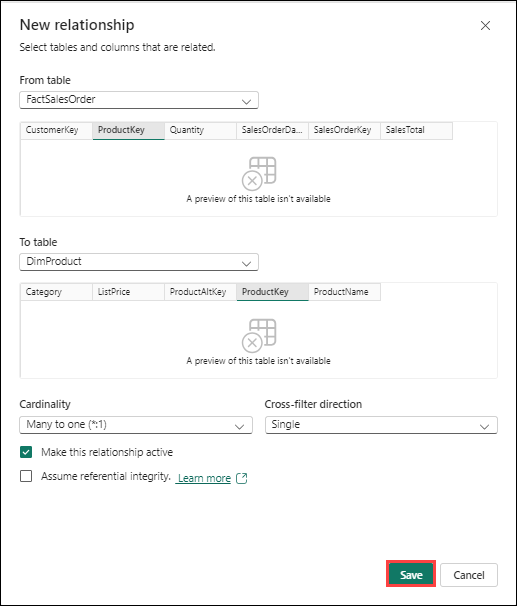
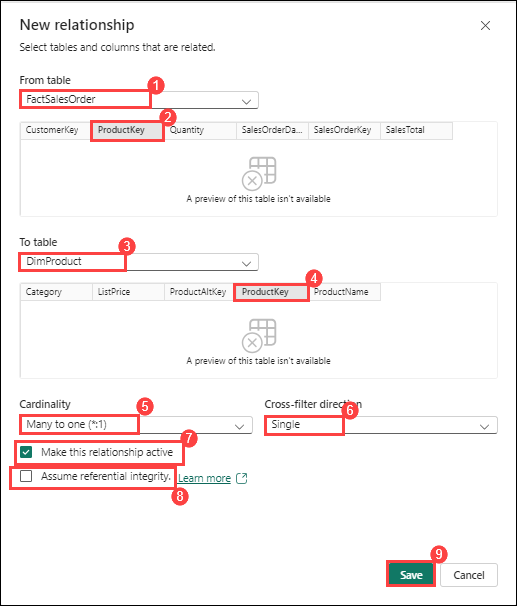
Updates 04 lab

diff --git a/Instructions/Labs/03-real-time-analytics.md b/Instructions/Labs/03-real-time-analytics.md
@@ -41,7 +41,7 @@ Kusto query language (KQL) is used to query static or streaming data in a table 
 
 1. Click on **Get data (1)** and select **Local file (2)**
 
-   ![01](./Images/03/01.png)
+   ![01](./Images/Real1.png)
 
 5. Use the wizard to import the data into a new table by selecting the following options:
     - **Source**:
@@ -67,7 +67,7 @@ Kusto query language (KQL) is used to query static or streaming data in a table 
 
 Now that you have a table of data in your database, you can use KQL code to query it.
 
-1. Make sure you have the **sales** table highlighted. From the menu bar, select the **Query table** drop-down, and from there select **Show any 100 records** .
+1. Make sure you have the **sales** table highlighted. From the menu bar, select the **Query with code** drop-down, and from there select **Show any 100 records** .
 
     ![01](./Images/L4T2S1.png)
     
@@ -103,7 +103,9 @@ Now that you have a table of data in your database, you can use KQL code to quer
 
 8. Run the query and review the results, which should contain the total net revenue for each product between January 1st and December 31st 2020 in ascending order of product name.
 
-9. Select **Save as KQL queryset** and save the query as **Revenue by Product**.
+9. Select **Eventhouse-1793453_queryset** and click on Edit buttons and change the name of the query to **Revenue by Product**.
+
+    ![01](./Images/Edit1.png)
 
 ## Task 3: Create a Power BI report from a KQL Queryset
 
@@ -113,15 +115,23 @@ You can use your KQL Queryset as the basis for a Power BI report.
 
 2. Select **Create Power BI report** and wait for the report editor to open.
 
-3. In the report editor, in the **Data** pane, expand **Kusto Query Result** and select the **Item** and **TotalRevenue** fields.
+    ![01](./Images/Edit2.png)
+
+3. In the report editor, in the **Data** pane, expand **Kusto Query Result** and select the **Item** and **TotalNetRevenue** fields.
 
 4. On the report design canvas, select the table visualization that has been added and then in the **Visualizations** pane, select **Clustered bar chart**.
 
     ![Screenshot of a report from a KQL query.](./Images/kql-report1.png)
 
-5. In the **Power BI** window, in the **File** menu, select **Save**. Then save the report as **Revenue by Item.pbix** in the workspace where your lakehouse and KQL database are defined using a **Non-Business** sensitivity label.
+5. In the **Power BI** window, in the **File** menu, select **Save**. Then save the report as **Revenue by Item (1)** then select the workspace **fabric-<inject key="DeploymentID" enableCopy="false"/> (2)** where your lakehouse and KQL database are defined using a **Non-Business** sensitivity label and then click **Continue (3)**
 
-6. Close the **Power BI** window, and in the bar on the left, select the icon for your workspace.
+    ![01](./Images/Edit3.png)
+
+1. Close the **Power BI** window, then click on **Save**.
+    
+    ![01](./Images/Edit4.png)
+
+6. In the bar on the left, select the icon for your workspace.
 
     Refresh the Workspace page if necessary to view all of the items it contains.
 
@@ -131,7 +141,9 @@ You can use your KQL Queryset as the basis for a Power BI report.
 
 Delta lake supports streaming data. Delta tables can be a *sink* or a *source* for data streams created using the Spark Structured Streaming API. In this example, you'll use a delta table as a sink for some streaming data in a simulated internet of things (IoT) scenario.
 
-1. Navigate back to your workspace and open **Load Sales Notebook**. Add a new code cell in the notebook. Then, in the new cell, add the following code and run it:
+1. Navigate back to your workspace and open **Load Sales Notebook**. Add a new code cell in the notebook by using the **+ Code** button. Then, in the new cell, add the following code and run it:
+
+    ![01](./Images/Edit5.png)
 
     ```python
    from notebookutils import mssparkutils
@@ -165,7 +177,7 @@ Delta lake supports streaming data. Delta tables can be a *sink* or a *source* f
 
     Ensure the message *Source stream created...* is printed. The code you just ran has created a streaming data source based on a folder to which some data has been saved, representing readings from hypothetical IoT devices.
 
-2. In a new code cell, add and run the following code:
+2. Add a new code cell, and run the following code:
 
     ```python
    # Write the stream to a delta table
@@ -177,7 +189,7 @@ Delta lake supports streaming data. Delta tables can be a *sink* or a *source* f
 
     This code writes the streaming device data in delta format to a folder named **iotdevicedata**. Because the path for the folder location in the **Tables** folder, a table will automatically be created for it.
 
-3. In a new code cell, add and run the following code:
+3. Add a new code cell, and run the following code:
 
     ```sql
    %%sql
@@ -187,7 +199,7 @@ Delta lake supports streaming data. Delta tables can be a *sink* or a *source* f
 
     This code queries the **IotDeviceData** table, which contains the device data from the streaming source.
 
-4. In a new code cell, add and run the following code:
+4. Add a new code cell, and run the following code:
 
     ```python
    # Add more data to the source stream
@@ -214,7 +226,7 @@ Delta lake supports streaming data. Delta tables can be a *sink* or a *source* f
 
     This code queries the **IotDeviceData** table again, which should now include the additional data that was added to the streaming source.
 
-6. In a new code cell, add and run the following code:
+6. Add a new code cell, and run the following code:
 
     ```python
    deltastream.stop()

diff --git a/Instructions/Labs/02-data-warehouse.md b/Instructions/Labs/02-data-warehouse.md
@@ -24,7 +24,7 @@ Now that you already have a workspace, it's time to switch to the *Data Warehous
 
 1. Navigate back to your fabric-<inject key="DeploymentID" enableCopy="false"/> workspace.
 
-1. Seacrh and Click on **Warehouse** to create a new Warehouse.
+1. Click on **+ New Item** ,Seacrh and Click on **Warehouse** to create a new Warehouse.
    
    ![01](./Images/u10.png)
 
@@ -99,30 +99,28 @@ A warehouse is a relational database in which you can define tables and other ob
 
 A relational data warehouse typically consists of *fact* and *dimension* tables. The fact tables contain numeric measures you can aggregate to analyze business performance (for example, sales revenue), and the dimension tables contain attributes of the entities by which you can aggregate the data (for example, product, customer, or time). In a Microsoft Fabric data warehouse, you can use these keys to define a data model that encapsulates the relationships between the tables.
 
-1. At the top of the page in the data warehouse, select the **Model** tab.
+1. At the top of the page in the data warehouse, select the **Model Layouts** tab. If the **Model Layouts** option doesn't show up, refresh the browser window. 
 
 2. In the model pane, rearrange the tables in your data warehouse so that the **FactSalesOrder** table is in the middle, like this:
 
     ![Screenshot of the data warehouse model page.](./Images/u12.png)
 
-3. Drag the **ProductKey** field from the **FactSalesOrder** table and drop it on the **ProductKey** field in the **DimProduct** table. Then confirm the following relationship details and click on **Save**:
+3. Drag the **ProductKey** field from the **FactSalesOrder** table and drop it on the **ProductKey** field in the **DimProduct** table. Then confirm the following relationship details and click on **Save (9)**:
 
-    - **Table 1**: FactSalesOrder
-    - **Column**: ProductKey
-    - **Table 2**: DimProduct
-    - **Column**: ProductKey
-    - **Cardinality**: Many to one (*:1)
-    - **Cross filter direction**: Single
-    - **Make this relationship active**: Selected
-    - **Assume referential integrity**: Unselected
+    - **Table 1 (1)**: FactSalesOrder
+    - **Column (2)**: ProductKey
+    - **Table 2 (3)**: DimProduct
+    - **Column (4)**: ProductKey
+    - **Cardinality (5)**: Many to one (*:1)
+    - **Cross filter direction (6)**: Single
+    - **Make this relationship active (7)**: Selected
+    - **Assume referential integrity (8)**: Unselected
 
       ![](./Images/u13.png)      
 
 4. Repeat the process to create many-to-one relationships between the following tables:
 
     - **FactOrderSales.CustomerKey** &#8594; **DimCustomer.CustomerKey**
-
-      ![Screenshot of the data warehouse model page.](./Images/u14.png)
 
     - **FactOrderSales.SalesOrderDateKey** &#8594; **DimDate.DateKey**
 
@@ -210,7 +208,7 @@ Instead of writing SQL code, you can use the graphical query designer to query t
 
 1. Drag **DimProduct** onto the **canvas**. We now have two tables in our query.
 
-1. Use the **(+)** button on the **FactSalesOrder** table on the canvas to **Merge queries**.
+1. Use the **(+) (1)** button on the **FactSalesOrder** table on the canvas to **Merge queries (2)**.
 
    ![Screenshot of the canvas with the FactSalesOrder table selected.](./Images/f-32.png)
 

diff --git a/Instructions/Labs/04-data-science.md b/Instructions/Labs/04-data-science.md
@@ -61,18 +61,11 @@ To train a model, you can create a *notebook*. Notebooks provide an interactive 
 
 Now you're ready to run code to prepare data and train a model. To work with data, you'll use *dataframes*. Dataframes in Spark are similar to Pandas dataframes in Python, and provide a common structure for working with data in rows and columns.
 
-1. Selct Lakehouses from the left pane and in the **Add lakehouse** pane, select **Add** to add a lakehouse.
+1. Under **Explore (1)** menu, select the **Add data items (2)** drop-down, and then select **Existing da`ta source (3)**, then select your **Lakehouse  (4)** and click on **Continue (5)** to add a lakehouse.
 
-   ![](./Images/f-19.png)
-   ![](./Images/Pg6-Edit-S4.png)
+   ![](./Images/Data1.png)
+   ![](./Images/Data2.png)
 
-1. Select **Existing lakehouse without Schema(1)** and select **Add (2)**.
-
-   ![](./Images/L5T3S2.png)
-
-1. Select the lakehouse you created in a previous section named **Lakehouse_<inject key="DeploymentID" enableCopy="false"/> (1)** and then click on **Add (2)**.
-
-   ![](./Images/L5T3S3.png) 
 
 1. Expand the **Files** folder so that the CSV file is listed next to the notebook editor.
 
@@ -257,15 +250,13 @@ After comparing machine learning models that you've trained across experiment ru
 
 1. Select **Run details**.
 
-1. Select the run with the highest accuracy. 
-
 1. Scroll right to see the Save as model option. Select **Save** in the **Save run as ML model** box.
 
    ![](./Images/saverun_31-1.png)
 
-1. Select **Create a new model** in the newly opened pop-up window.
+1. Select **Create a new model (1)** in the newly opened pop-up window.
 
-1. Select **model** for Select folder, name the model **model-churn**, and select **Save**.
+1. Select **model (2)** for Select folder, name the model **model-churn (3)**, and select **Save (4)**.
 
     ![](./Images/L5T7S6.png)
 
